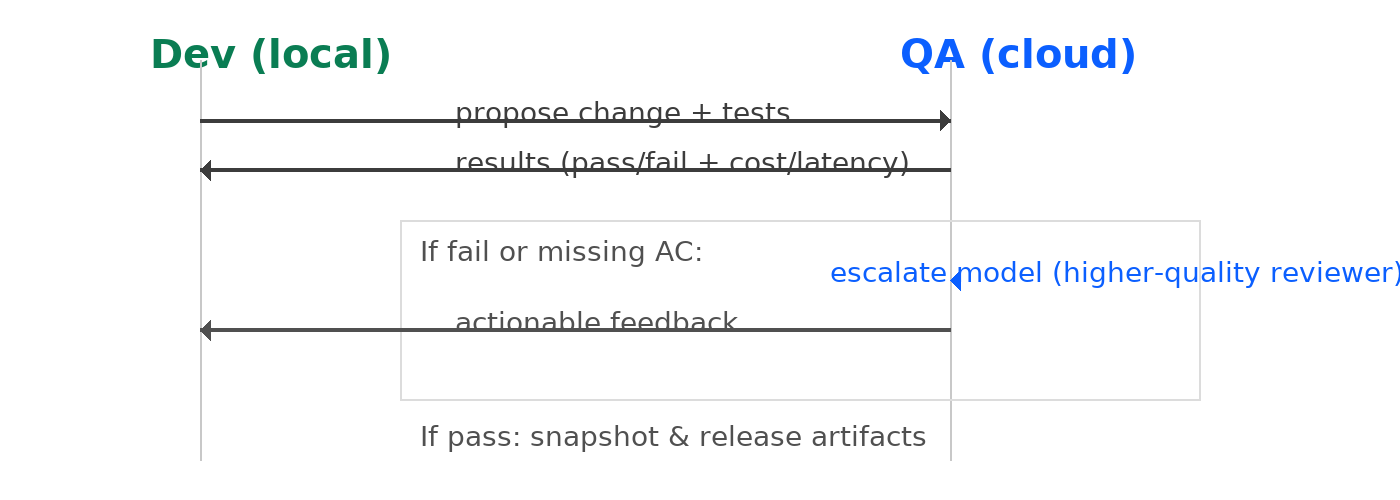
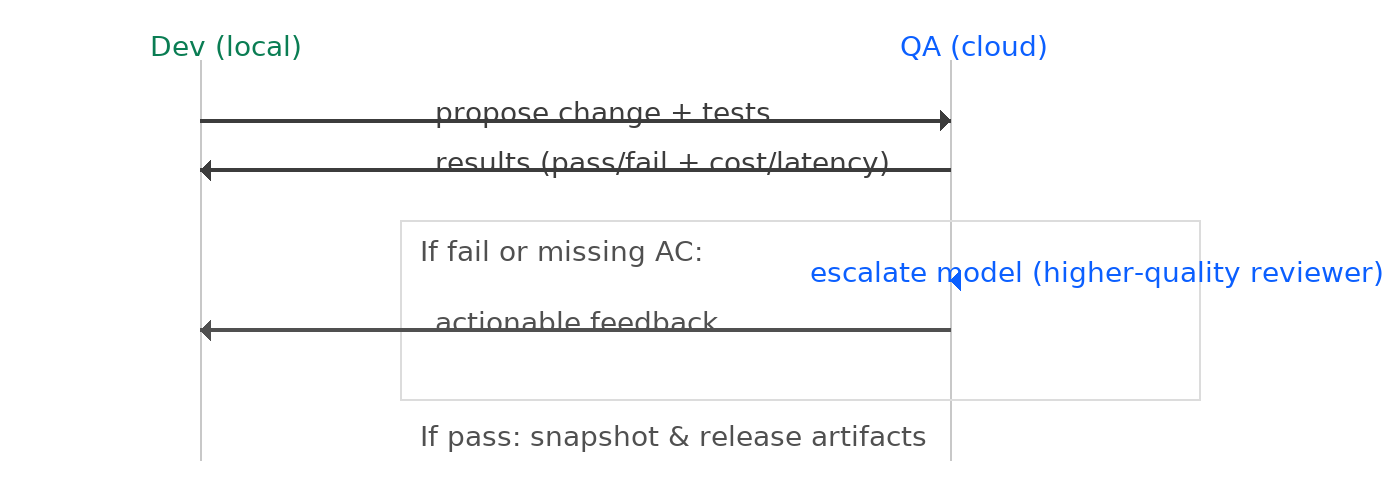
docs: Update vision document images and styles for improved clarity and consistency

diff --git a/docs/00-vision-ok/index.html b/docs/00-vision-ok/index.html
@@ -7,33 +7,34 @@
   <meta name="description" content="Ship faster with a model-agnostic pipeline: local drafts for speed/cost, cloud sign-off for quality. Guardrails, routing, and auditable artifacts.">
   <meta property="og:title" content="Right Model, Right Moment — Ship Faster with a Model-Agnostic Software Factory Pipeline">
   <meta property="og:description" content="Ship faster with a model-agnostic pipeline: local drafts for speed/cost, cloud sign-off for quality. Guardrails, routing, and auditable artifacts.">
-  <meta property="og:image" content="../assets/hero-right-model.png">
+  <meta property="og:image" content="https://krukmat.github.io/agnostic-ai-pipeline/assets/hero-right-model.png">
   <meta name="twitter:card" content="summary_large_image">
   <meta name="twitter:title" content="Right Model, Right Moment — Ship Faster with a Model-Agnostic Software Factory Pipeline">
   <meta name="twitter:description" content="Ship faster with a model-agnostic pipeline: local drafts for speed/cost, cloud sign-off for quality. Guardrails, routing, and auditable artifacts.">
-  <meta name="twitter:image" content="../assets/hero-right-model.png">
+  <meta name="twitter:image" content="https://krukmat.github.io/agnostic-ai-pipeline/assets/hero-right-model.png">
   <style>
-    :root { --maxw: 760px; }
-    body { font-family: system-ui, -apple-system, Segoe UI, Roboto, sans-serif; line-height: 1.65; color: #0b0f19; }
-    main { max-width: var(--maxw); margin: 2rem auto; padding: 0 1rem; }
-    h1, h2, h3 { line-height: 1.25; }
-    .subtitle { color: #444; margin-top: -0.5rem; }
-    .hero img { width: 100%; border-radius: 12px; }
-    pre { overflow: auto; background: #f6f8fa; padding: 1rem; border-radius: 8px; }
-    code { font-family: ui-monospace, SFMono-Regular, Menlo, monospace; }
-    .callout { background: #fff7cc; border: 1px solid #ffe58f; padding: 0.75rem 1rem; border-radius: 8px; }
-    .muted { color: #666; }
-    hr { border: none; border-top: 1px solid #eee; margin: 2rem 0; }
-    a { color: #0b5fff; text-decoration: none; }
-    .footer { margin-top: 3rem; font-size: .9rem; color: #666; }
-    .byline { margin: .25rem 0 1rem; font-size: .95rem; color: #586076; }
-    figure { margin: 1.25rem 0; }
-    figcaption { font-size: .9rem; color: #666; }
+    :root {{ --maxw: 760px; }}
+    body {{ font-family: system-ui, -apple-system, Segoe UI, Roboto, sans-serif; line-height: 1.72; color: #0b0f19; background: #fff; }}
+    main {{ max-width: var(--maxw); margin: 2.25rem auto; padding: 0 1rem; }}
+    h1, h2, h3 {{ line-height: 1.25; }}
+    h1 {{ font-size: 2.1rem; }}
+    .subtitle {{ color: #444; margin-top: -0.35rem; }}
+    .hero img {{ width: 100%; border-radius: 12px; }}
+    pre {{ overflow: auto; background: #f6f8fa; padding: 1rem; border-radius: 8px; font-size: 0.95rem; }}
+    code {{ font-family: ui-monospace, SFMono-Regular, Menlo, monospace; }}
+    .callout {{ background: #fff7cc; border: 1px solid #ffe58f; padding: 0.75rem 1rem; border-radius: 8px; }}
+    .muted {{ color: #666; }}
+    hr {{ border: none; border-top: 1px solid #eee; margin: 2rem 0; }}
+    a {{ color: #0b5fff; text-decoration: none; }}
+    .footer {{ margin-top: 3rem; font-size: .9rem; color: #666; }}
+    .byline {{ margin: .25rem 0 1rem; font-size: .95rem; color: #586076; }}
+    figure {{ margin: 1.25rem 0; }}
+    figcaption {{ font-size: .9rem; color: #666; }}
   </style>
 </head>
 <body>
   <main>
-    <figure class="hero"><img src="../assets/hero-right-model.png" alt="Right Model, Right Moment"></figure>
+    <figure class="hero"><img src="https://krukmat.github.io/agnostic-ai-pipeline/assets/hero-right-model.png" alt="Right Model, Right Moment"></figure>
     <h1>Right Model, Right Moment — Ship Faster with a Model-Agnostic Software Factory Pipeline</h1>
     <p class="byline muted">Agnostic-AI Pipeline • Open PoC</p>
     <p class="subtitle">How to ship real value while models change every week.</p>
@@ -65,16 +66,16 @@
     <p>The pipeline runs <strong>BA → Architect → Dev → QA</strong> as a repeatable loop. A single command kicks an iteration, produces artifacts (requirements, stories, code, tests, QA results), and snapshots the state for audits and rollbacks.</p>
 
     <figure>
-      <img src="../assets/flow-e2e.png" alt="End-to-end flow">
+      <img src="https://krukmat.github.io/agnostic-ai-pipeline/assets/flow-e2e.png" alt="End-to-end flow">
       <figcaption>End-to-end loop: local for drafts; cloud only for sign-off.</figcaption>
     </figure>
 
     <h2>Routing by constraints</h2>
     <p>Pick models <strong>per step</strong>, not per project. Keep drafts local; escalate review/sign-off.</p>
     <pre><code class="language-json">{
-  "BA":   { "provider": "local", "model": "qwen2.5-coder:14b", "max_cost": 0.50 },
-  "ARCH": { "provider": "local", "model": "qwen2.5:7b",        "max_cost": 0.40 },
-  "REVIEW": { "provider": "cloud", "model": "gpt-4o-mini", "max_cost": 1.50, "when": "final_signoff" }
+  "BA":   {{ "provider": "local", "model": "qwen2.5-coder:14b", "max_cost": 0.50 }},
+  "ARCH": {{ "provider": "local", "model": "qwen2.5:7b",        "max_cost": 0.40 }},
+  "REVIEW": {{ "provider": "cloud", "model": "gpt-4o-mini", "max_cost": 1.50, "when": "final_signoff" }}
 }</code></pre>
 
     <h2>Artifacts &amp; snapshots (auditable by design)</h2>
@@ -97,7 +98,7 @@
   "concept": "Login MVP",
   "loops": 2,
   "qa_strict": true,
-  "stories": { "done": 7, "blocked": 2, "pending": 1 },
+  "stories": {{ "done": 7, "blocked": 2, "pending": 1 }},
   "blocked_ids": ["ST-008", "ST-011"]
 }</code></pre>
 
@@ -136,7 +137,7 @@ make set-role role=dev provider=codex_cli model="codex-local"
 </code></pre>
 
     <figure>
-      <img src="../assets/sequence-escalation.png" alt="Escalation sequence">
+      <img src="https://krukmat.github.io/agnostic-ai-pipeline/assets/sequence-escalation.png" alt="Escalation sequence">
       <figcaption>Escalation rule: local draft → cloud review only when needed.</figcaption>
     </figure>
 
